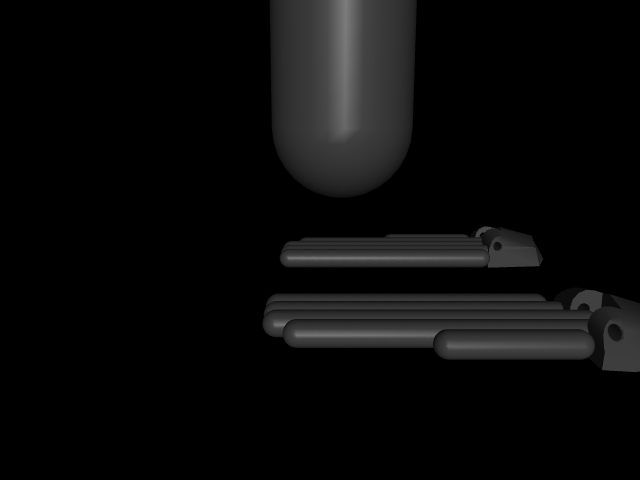
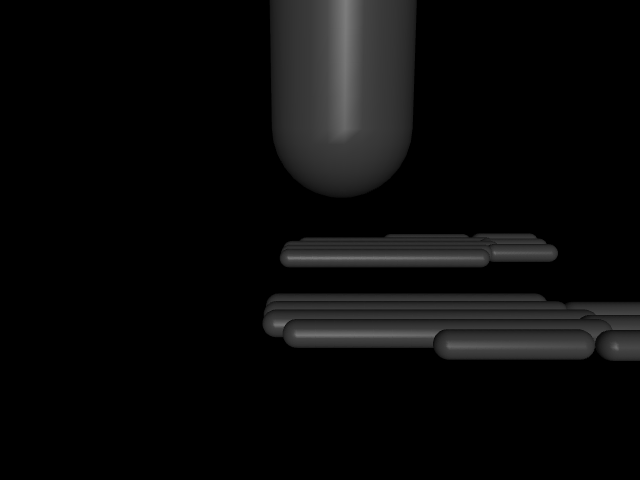
toe collision: mesh -> PRIMITIVE capsules (user: keep it primitive like the rest)
The toe collision I first added was the toe MESH (inconsistent with the all-primitive unitree-lab colliders).
Replaced with 3 y-axis capsules per toe (L/R_toe1-3_collision, foot_collision class) sized from the measured toe
bbox (toe_link frame: x +-0.044, y -0.065..0, sole flush with the foot rake at z=-0.010) -> the toe capsules
continue the foot-sole rake forward, flush, so the toe contacts during forefoot roll and loads the passive spring.
Now 22 collision geoms, ALL primitive (capsules + head sphere), 0 mesh collisions. Re-rendered (collision_foot_side
shows the toe capsules flush-extending the sole rake). NOTE: still needs USD --force reconvert -> after Asimov.

Changed region(s): [[0.875, 0.5938, 1.0, 0.7812], [0.75, 0.4688, 0.875, 0.5625]]

diff --git a/docs/reward_research/2026-06-28_heeltoe_stride_fix.md b/docs/reward_research/2026-06-28_heeltoe_stride_fix.md
@@ -44,7 +44,7 @@ Phase1(swing_height -20@0.12) 실패 원인 2가지 확정:
 - **검증**: v2 학습 → close-up(발 평탄·toe 굽힘) + measure(발목 RMS↓?). toe 굽으면 성공.
 
 ### Collision geometry 시각화 (MuJoCo, `scripts/viz_collision.py`)
-18 collision geom = torso 캡슐 + head 구 + thigh/shin 캡슐(×2) + **발바닥 5캡슐 rake(×2)** + ★ **toe collision(×2, 신규)**. 측면뷰서 toe 블록이 sole 앞쪽 끝·sole 높이에 위치 = 발이 앞으로 구르면 toe 접촉→하중→스프링 굽힘. (primitive=unitree-lab식, mesh보다 빠르고 안정.)
+22 collision geom = torso 캡슐 + head 구 + thigh/shin 캡슐(×2) + **발바닥 5캡슐 rake(×2)** + ★ **toe 3캡슐(×2, 신규 — PRIMITIVE)**. toe bbox(toe_link 프레임): x±0.044, y -0.065~0(앞=−y), sole bottom -0.023≈foot sole flush. toe 캡슐을 sole 높이(z=-0.010)에 y축 3개로 두어 **sole rake를 앞으로 연장(flush)** → 발이 앞으로 구르면 toe 접촉→하중→스프링 굽힘. **전부 primitive(=unitree-lab식), mesh collision 0개** (처음엔 toe를 mesh로 넣었으나 사용자 지적으로 capsule 통일).
 ![collision body](assets/collision_body.png)
 ![collision foot (sole rake + toe block at front)](assets/collision_foot_side.png)
 